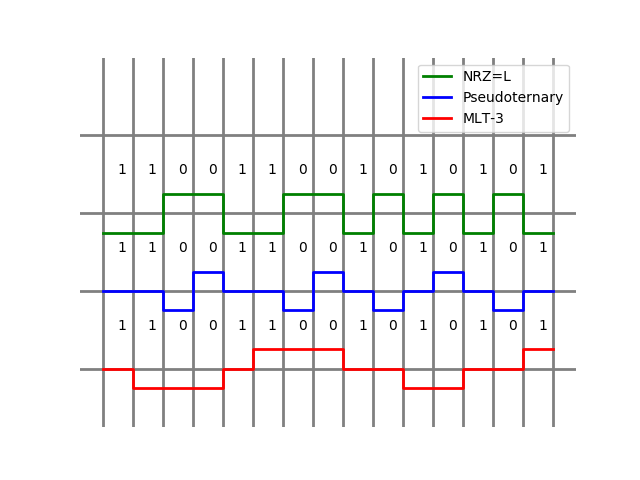
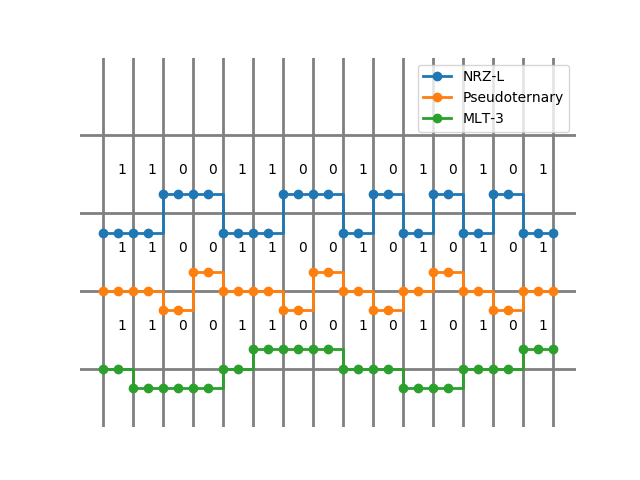
scheme plot points are now dotted for more clarity

diff --git a/mcgintyProjectTwo.py b/mcgintyProjectTwo.py
@@ -1,13 +1,15 @@
 import matplotlib.pyplot as plt
 import numpy as np
 
-# bits = [0,1,0,1,1,0,1,1,0,0,1,1,0,1,0]
-# have each scheme function return list of bits to plot
+# each scheme function return lists of bits to plot
 # and text output which is list of +, - or 0
 
+# determine sign of bit, either +, - or 0
 def get_sign(bit):
     return str(bit) if bit == 0 else ('+' if bit > 0 else '-')
 
+# non-return to zero scheme
+# signal is positive when bit is 0, negative when bit is 1
 def nrzlScheme(bits):
     nrzl_level = [-1 if bit else 1 for bit in bits]
     nrzl_text = [get_sign(level) for level in nrzl_level]
@@ -28,7 +30,7 @@ def pseudoternaryScheme(bits):
 
 def mlt3Scheme(bits):
     mlt3_levels = [0 if bits[0] else 1] 
-    mlt3_text = [0 if bits[0] else '+']
+    mlt3_text = [str(0) if bits[0] else '+']
     current_level, last_non_zero_level = mlt3_levels[0], 1
     
     for next_bit in bits[1:]:
@@ -45,17 +47,18 @@ def mlt3Scheme(bits):
         mlt3_levels.append(next_level)
         mlt3_text.append(get_sign(next_level))
 
-    # mlt3_levels.append(mlt3_levels[-1])
     return np.repeat(mlt3_levels, 2), mlt3_text
 
-def createAxes(ax, pos, *args, **kwargs):
 
-    if ax == 'x':
-        for p in pos:
-            plt.axvline(p, *args, **kwargs)
-    else:
-        for p in pos:
-            plt.axhline(p, *args, **kwargs)
+# plots ranges of lines on appropriate axis
+def createAxes(axis, lines, *args, **kwargs):
+
+    if axis == 'x':
+        for line in lines:
+            plt.axvline(line, *args, **kwargs)
+    else: # y
+        for line in lines:
+            plt.axhline(line, *args, **kwargs)
 
 def plotSchemes(bits):
 
@@ -66,29 +69,27 @@ def plotSchemes(bits):
     nrzl_levels = np.append(nrzl_levels, nrzl_levels[-1])
     pseudoternary_levels = np.append(pseudoternary_levels, pseudoternary_levels[-1:])
     mlt3_levels = np.append(mlt3_levels, mlt3_levels[-1:])
+    
     print([str(bit) for bit in bits], "Bits")
     print(nrzl_text, "NRZ-L")
     print(pseudoternary_text, "Pseudoternary")
     print(mlt3_text, "MLT-3")
-    # bits.append(bits[-1])
-    data = np.repeat(bits, 2) # just doubles element in sequnce
+
+    data = np.repeat(bits, 2) # double sequence of bits to fill x axis
     t = 0.5 * np.arange(len(data))
     t = np.append(t, t[-1]+0.5)
 
-    # # linewidth is literally tickness of line
-    # second argument is range of numbers where a line will be drawn on appropriate axis
-    # remainder of arguements will resolve to args and kwargs
     createAxes('x', range(len(bits)+1), color='.5', linewidth=2) 
     createAxes('y', [1, 5, 9, 13], color='.5', linewidth=2)
-    #plt.step(x, y, color, args)
-    plt.step(t, nrzl_levels + 9, 'green', linewidth = 2, where='post', label='NRZ=L')
-    plt.step(t, pseudoternary_levels + 5, 'blue', linewidth = 2, where='post', label='Pseudoternary')
-    plt.step(t, mlt3_levels + 1, 'red', linewidth = 2, where='post', label='MLT-3')
+
+    plt.step(t, nrzl_levels + 9, 'o', linewidth = 2, where='post', label='NRZ-L')
+    plt.step(t, pseudoternary_levels + 5, 'o', linewidth = 2, where='post', label='Pseudoternary')
+    plt.step(t, mlt3_levels + 1, 'o', linewidth = 2, where='post', label='MLT-3')
     plt.legend(loc='upper right', prop={'size': 10})
 
     plt.ylim([-2, 17])
 
-    for tbit, bit in enumerate(bits):
+    for tbit, bit in enumerate(bits): # adds bit sequence above each scheme plot
         plt.text(tbit + 0.5, 11, str(bit))
         plt.text(tbit + 0.5, 7, str(bit))
         plt.text(tbit + 0.5, 3, str(bit))
